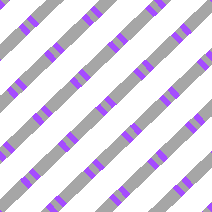
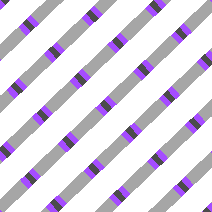
better 73s

diff --git a/dive/tileoverlays/make_higher_gradients.py b/dive/tileoverlays/make_higher_gradients.py
@@ -95,6 +95,8 @@ for p in primes:
     supercolour, supersevens, superresidue = base_colour((residue+1)/2)
     if superresidue > 1:
       supersupercolour, supersupersevens, supersuperresidue = base_colour((superresidue+1)/2)
+      if supercolour == [127.5, 127.5, 127.5]:
+        supercolour = [0.0, 0.0, 0.0]
     else:
       supersupercolour = None
     if supersevens > 1:
